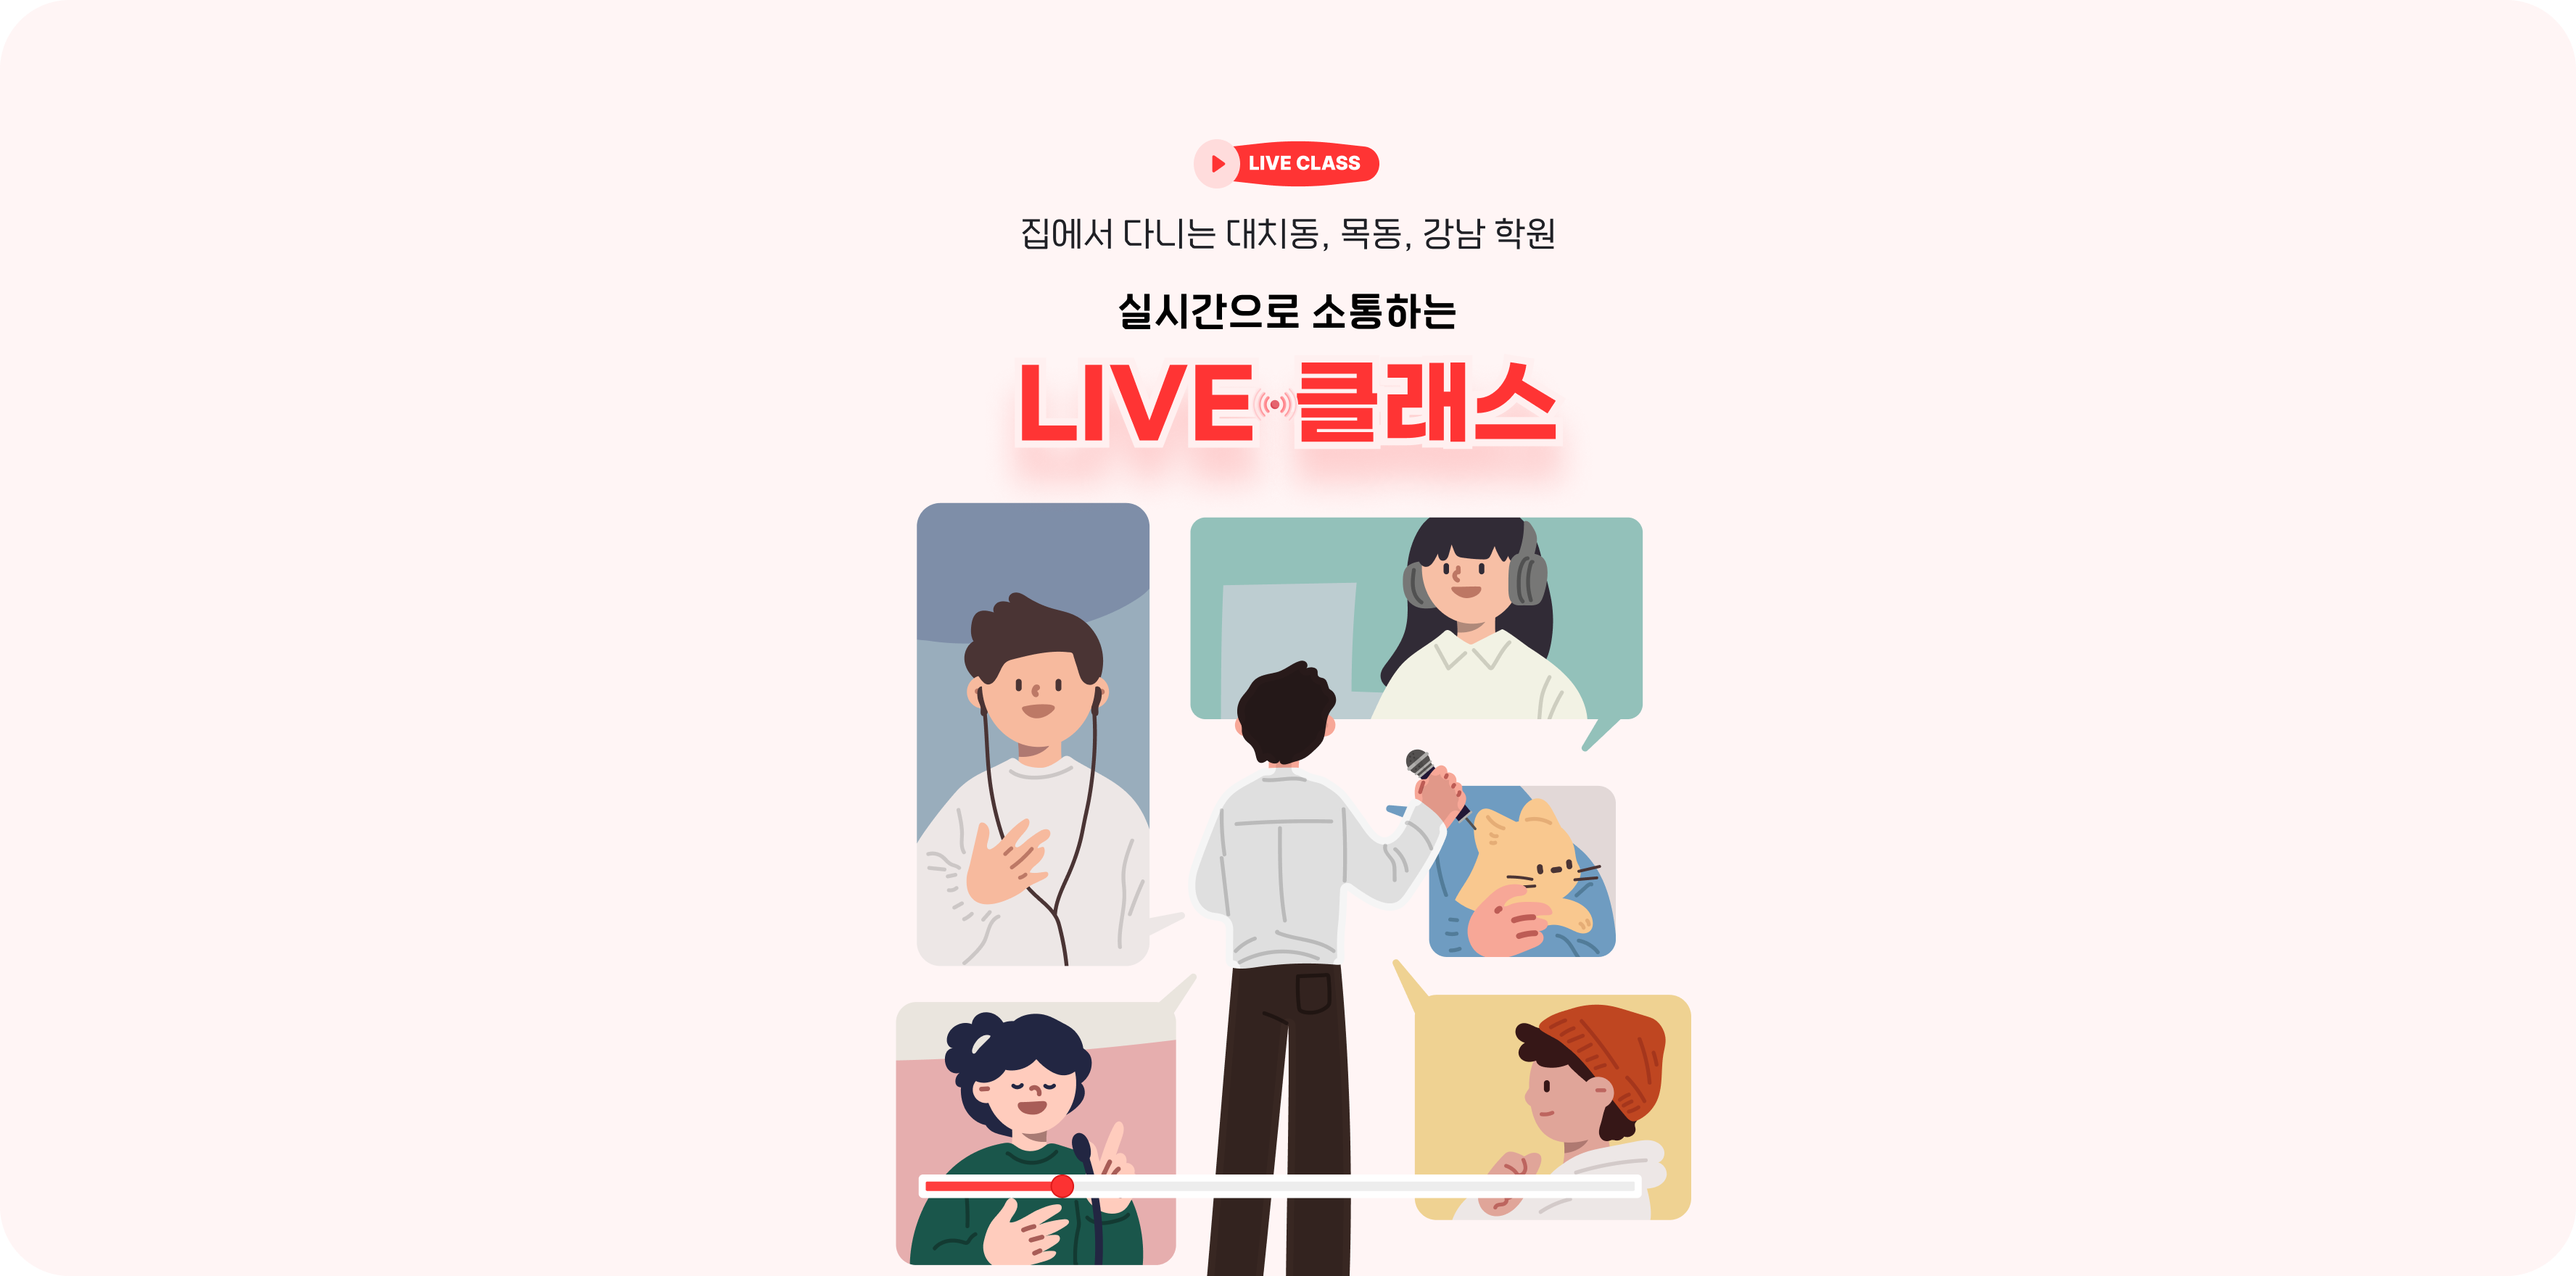
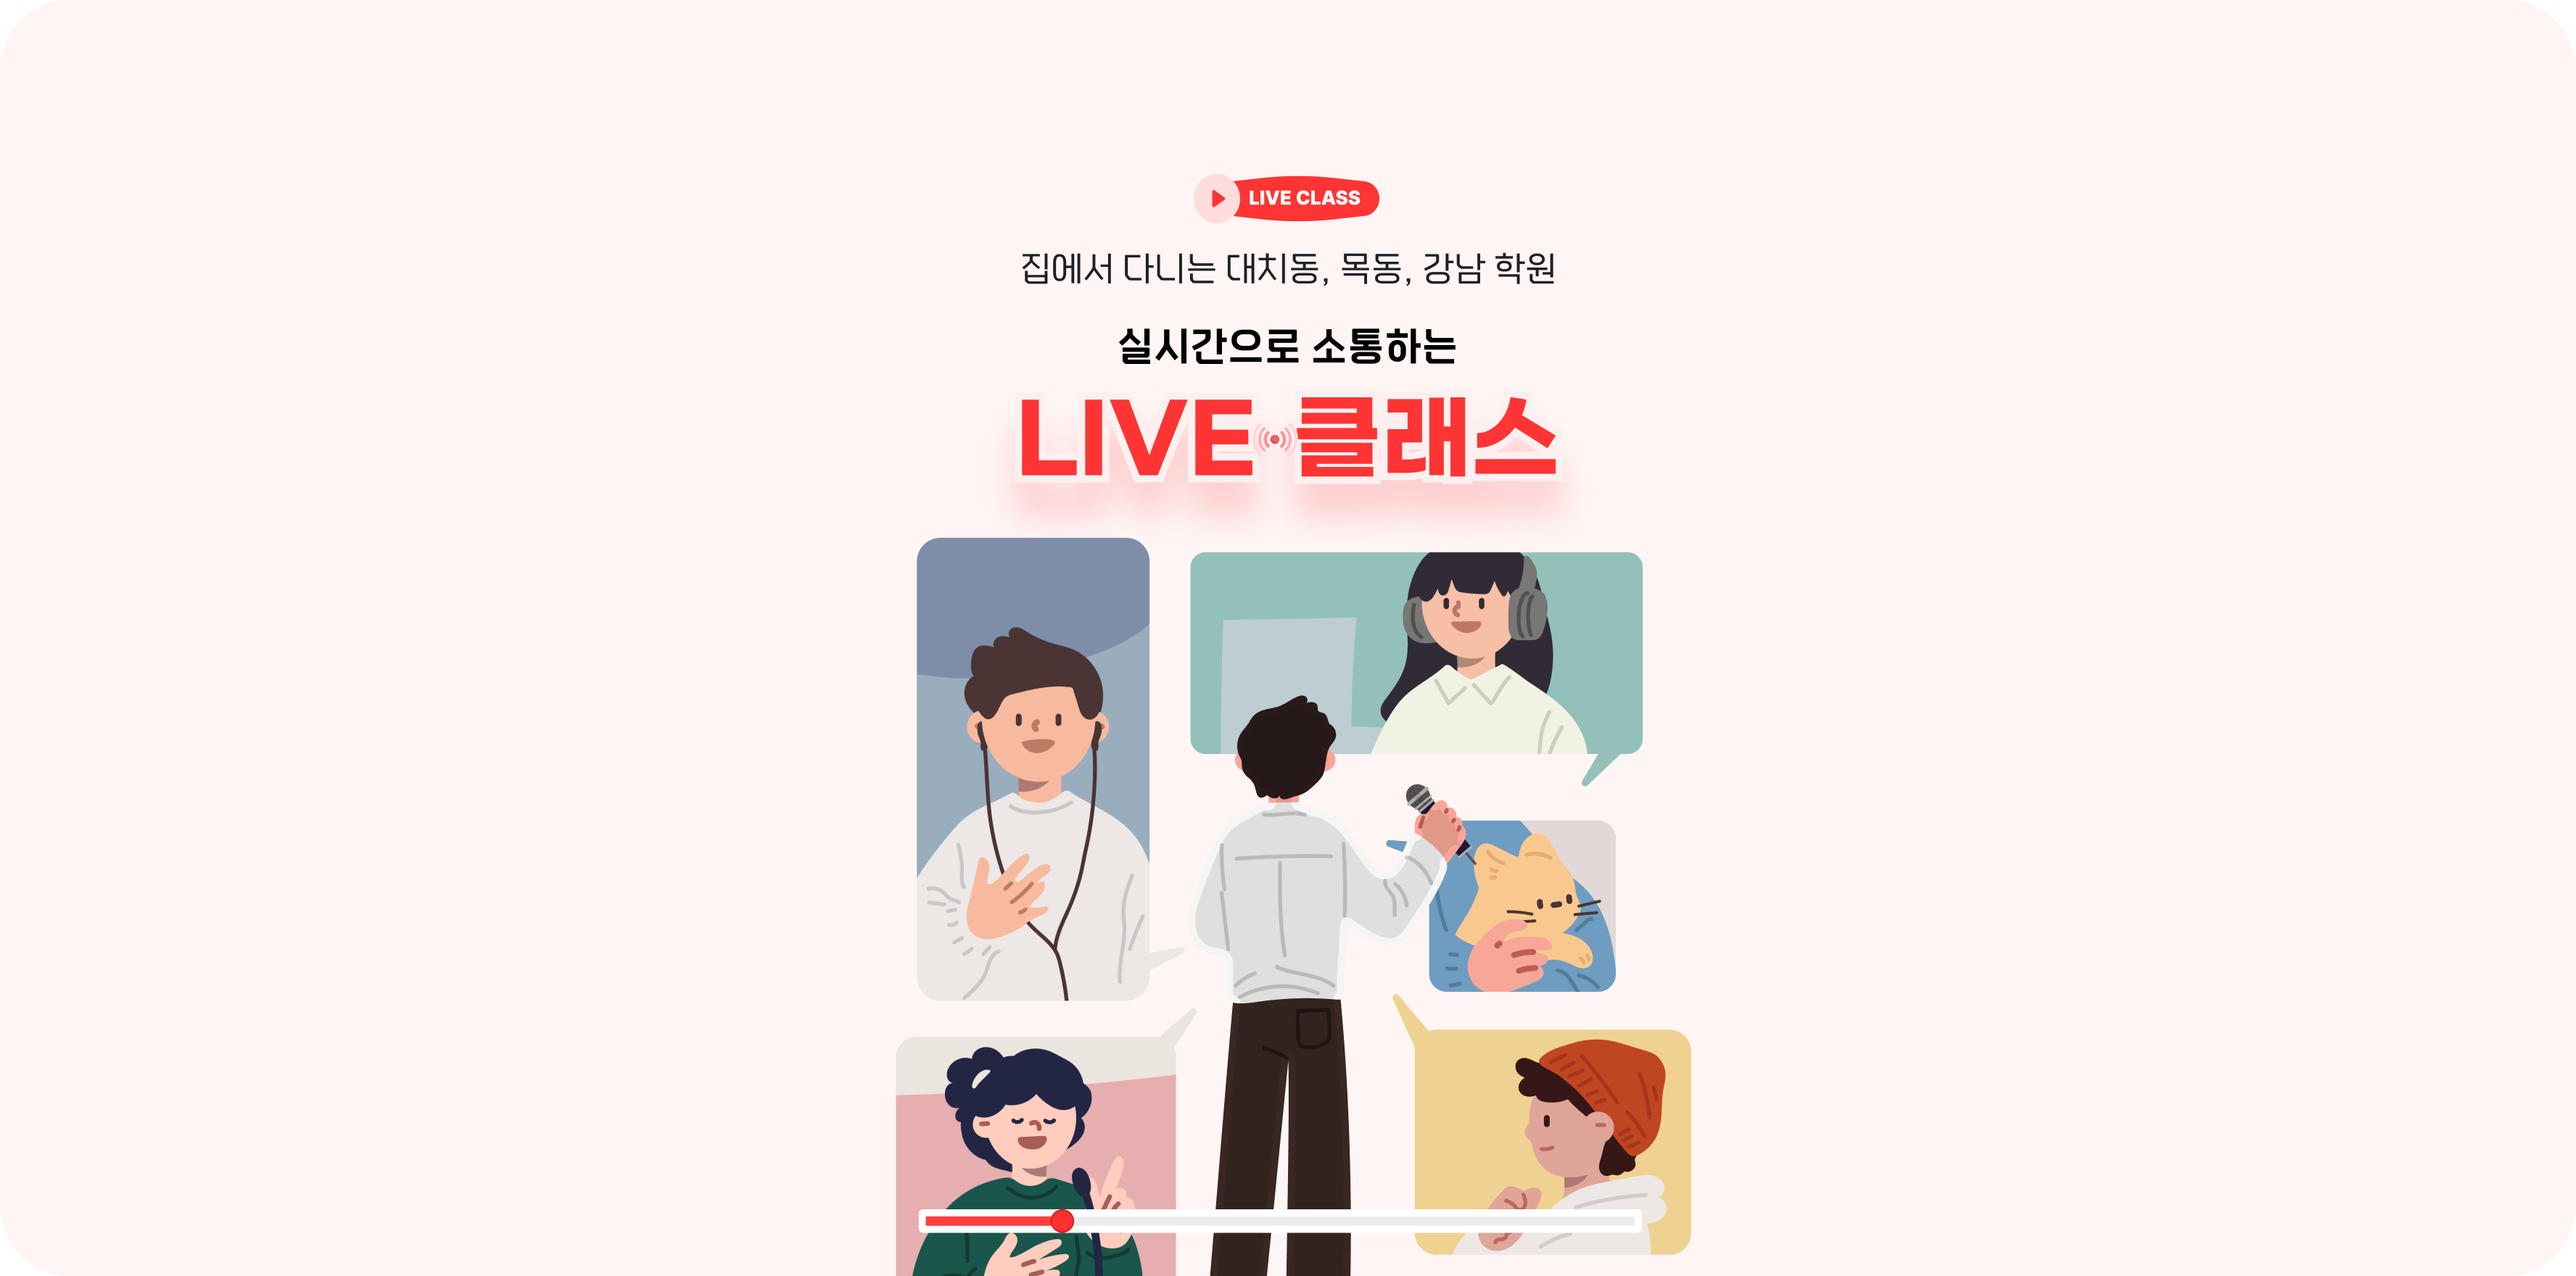
라이브클래스: 섹션00 히어로 비주얼 교체 및 캐시 버스트(?v=20260412)
Made-with: Cursor

Changed region(s): [[0.3438, 0.0938, 0.6562, 1.0]]

diff --git a/project-liveclass.html b/project-liveclass.html
@@ -28,7 +28,7 @@
     <div class="case-hero" data-reveal>
       <div class="case-hero__frame">
         <img
-          src="assets/image/liveclass/section00-visual01.png?v=1"
+          src="assets/image/liveclass/section00-visual01.png?v=20260412"
           width="1776"
           height="880"
           alt="라이브클래스 MVP: 실시간 수업·온라인 학습 서비스 메인 비주얼"
